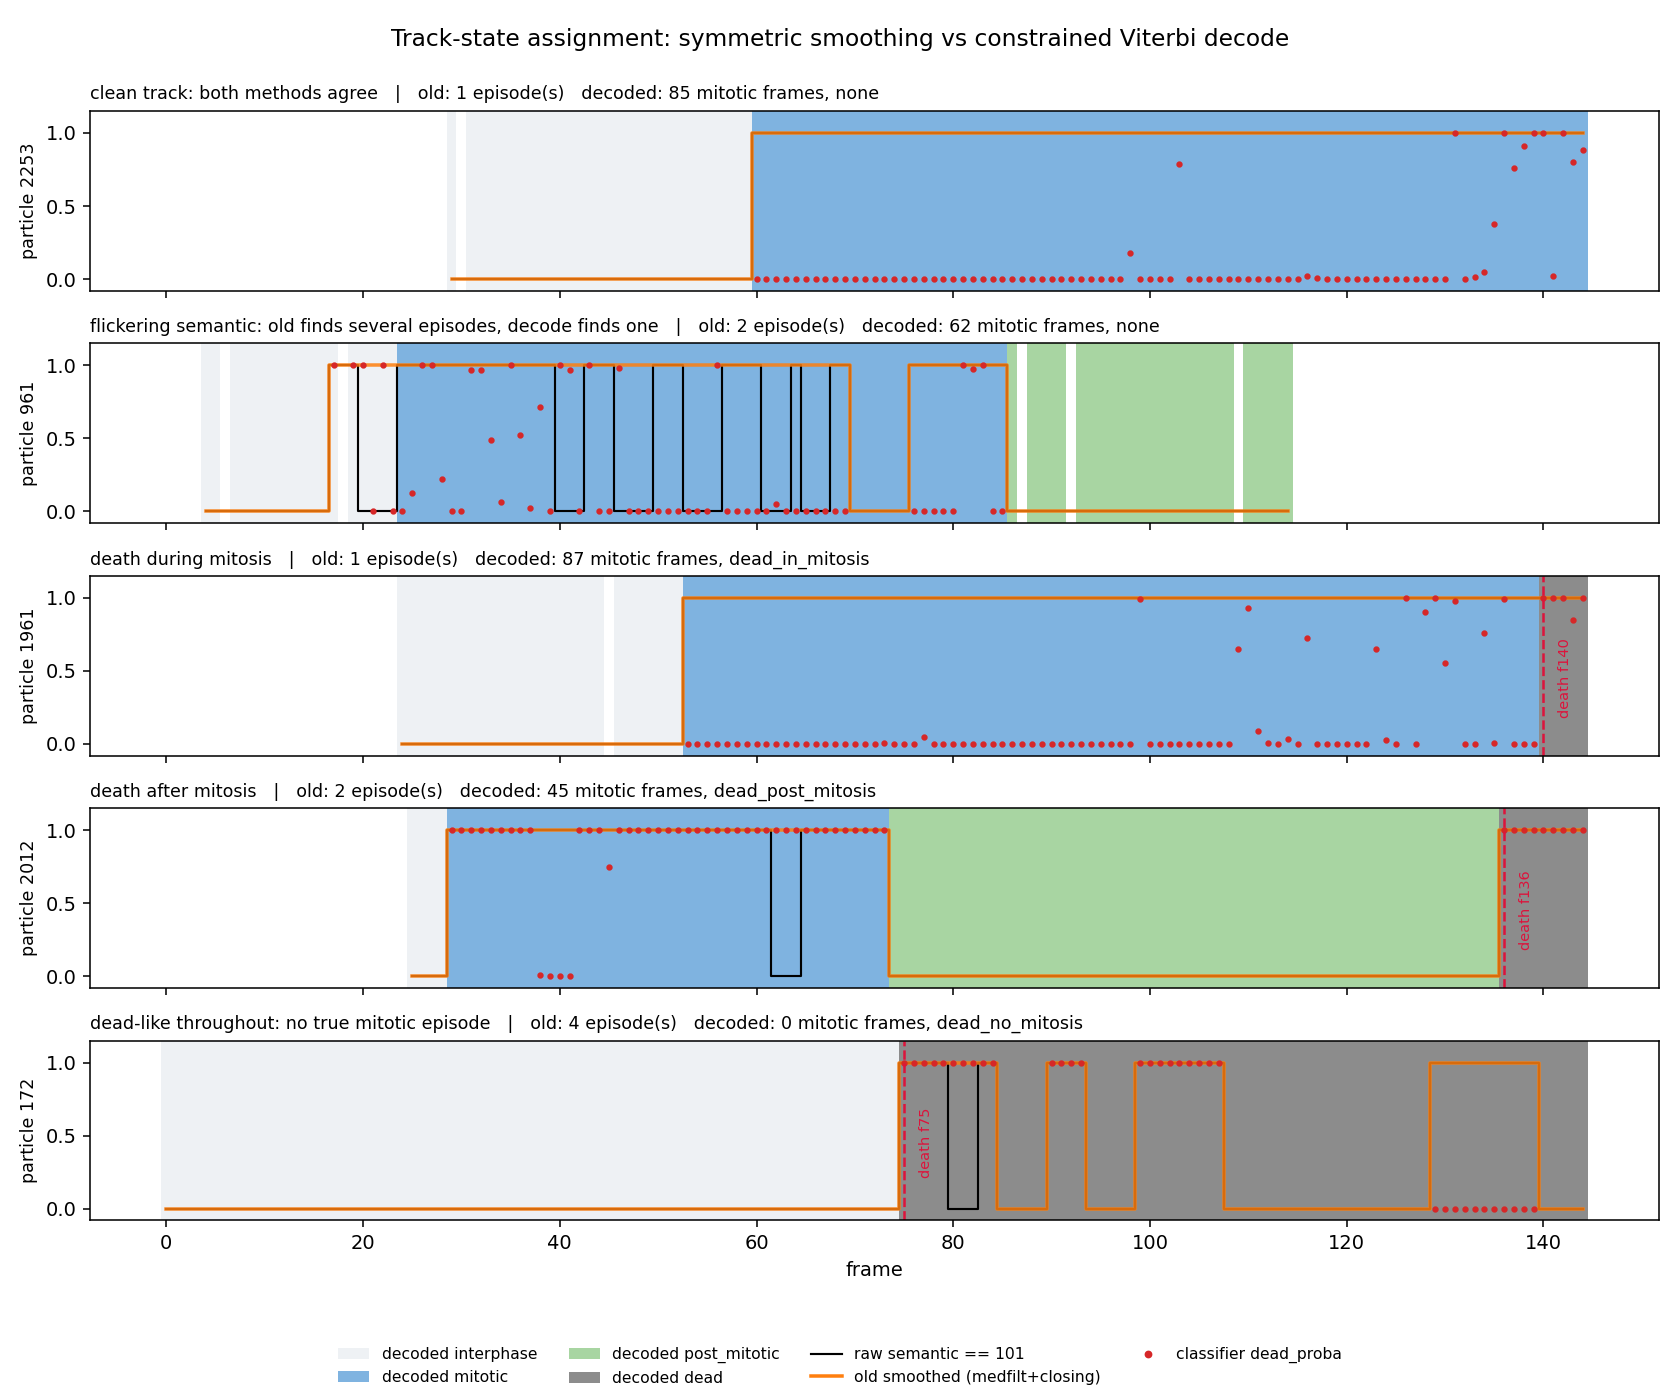
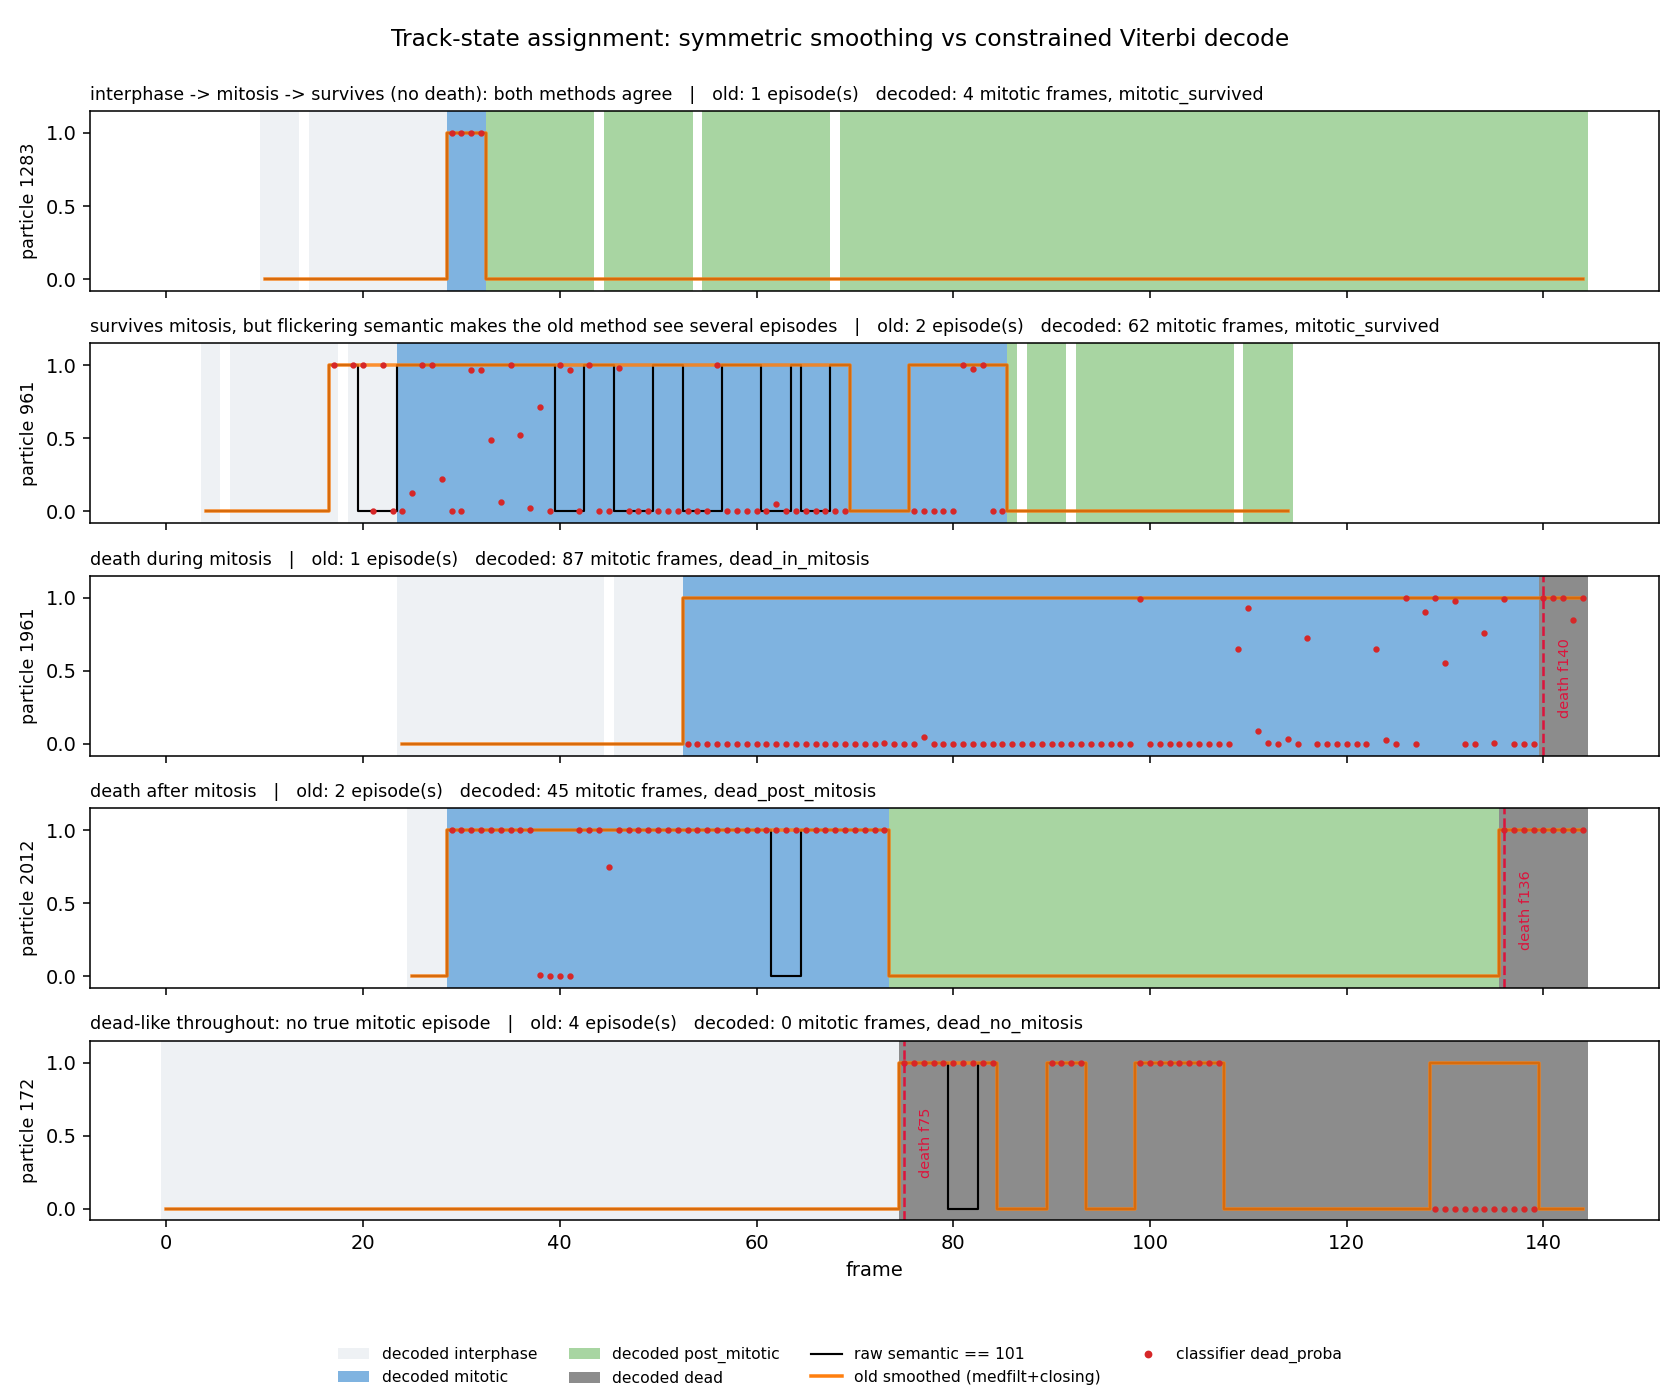
Name the survives-mitosis outcome explicitly (death_label -> fate_label)
The decode already permitted interphase -> mitosis -> post-mitotic without
death (234 of 2741 A03_s1 tracks take that path), but the label conflated
it with tracks that never divided: both were reported as 'none'.

fate_label now distinguishes all five outcomes:
  no_mitosis, mitotic_survived, dead_in_mitosis, dead_post_mitosis,
  dead_no_mitosis
death_frame is populated for exactly the three dead_* labels.

On A03_s1 the 443 summarized tracks split 269 mitotic_survived,
130 dead_no_mitosis, 19 dead_in_mitosis, 13 dead_post_mitosis, 12 no_mitosis.

Changed region(s): [[0.0619, 0.0614, 0.9595, 0.2457]]

diff --git a/figures/decode_demo.py b/figures/decode_demo.py
@@ -49,22 +49,25 @@ for pid, g in df.groupby('particle'):
     _, props = find_peaks(np.append(g.semantic_smoothed.to_numpy(), np.zeros(3)),
                           width=MIN_DUR)
     decoded[pid] = (g, states, ev)
+    path = ''.join('IMPD'[s] for s in states)
     rows.append(dict(pid=pid, n=len(g),
                      raw_flips=int(np.abs(np.diff(mit_obs.astype(int))).sum()),
                      old_peaks=props['widths'].size,
                      old_dur=props['widths'][0] if props['widths'].size == 1 else np.nan,
                      new_dur=int((states == 1).sum()),
-                     label=ev['death_label'], death_frame=ev['death_frame']))
+                     exits=int((states == 2).any()),
+                     path=''.join(c for i, c in enumerate(path) if i == 0 or c != path[i-1]),
+                     label=ev['fate_label'], death_frame=ev['death_frame']))
 S = pd.DataFrame(rows)
 
-print('=== decoded death labels (all tracks with a 101 detection) ===')
+print('=== decoded fate labels (all tracks with a 101 detection) ===')
 print(S.label.value_counts().to_string())
 print(f"\ntracks total: {len(S)}")
 print(f"old method: {(S.old_peaks > 1).sum()} tracks give >1 mitotic episode "
       f"(discarded by summarize_data); {(S.old_peaks == 0).sum()} give none")
 resc = S[(S.old_peaks > 1) & (S.new_dur >= MIN_DUR)]
 print(f"of those, decode recovers a single episode for {len(resc)} "
-      f"({resc.label.eq('none').sum()} without death)")
+      f"({resc.label.eq('mitotic_survived').sum()} without death)")
 both = S[(S.old_peaks == 1) & (S.new_dur >= MIN_DUR)]
 print(f"tracks scored by both methods: {len(both)}; median duration "
       f"old {both.old_dur.median():.1f} vs decoded {both.new_dur.median():.1f} frames")
@@ -78,12 +81,12 @@ def take(sel, title):
             picks.append((pid, title))
             return
 
-take(S[(S.old_peaks == 1) & (S.label == 'none') & (S.raw_flips <= 2)
-       & (S.n > 60)].sort_values('new_dur', ascending=False),
-     'clean track: both methods agree')
-take(S[(S.old_peaks > 1) & (S.label == 'none') & (S.new_dur >= 4)]
+take(S[(S.path == 'IMP') & (S.new_dur.between(4, 12)) & (S.raw_flips <= 3)
+       & (S.n > 60)].sort_values('n', ascending=False),
+     'interphase -> mitosis -> survives (no death): both methods agree')
+take(S[(S.path == 'IMP') & (S.old_peaks > 1) & (S.new_dur >= 4)]
      .sort_values('raw_flips', ascending=False),
-     'flickering semantic: old finds several episodes, decode finds one')
+     'survives mitosis, but flickering semantic makes the old method see several episodes')
 take(S[(S.label == 'dead_in_mitosis') & (S.n > 40)].sort_values('new_dur', ascending=False),
      'death during mitosis')
 take(S[(S.label == 'dead_post_mitosis') & (S.n > 50)].sort_values('new_dur', ascending=False),
@@ -110,7 +113,7 @@ for ax, (pid, title) in zip(np.atleast_1d(axes), picks):
     ax.set_ylim(-0.08, 1.15)
     ax.set_ylabel(f'particle {pid}', fontsize=9)
     ax.set_title(f'{title}   |   old: {row.old_peaks} episode(s)   '
-                 f'decoded: {row.new_dur} mitotic frames, {ev["death_label"]}',
+                 f'decoded: {row.new_dur} mitotic frames, {ev["fate_label"]}',
                  fontsize=9, loc='left')
 axes[-1].set_xlabel('frame')
 handles = [Patch(fc=c, label=f'decoded {n}') for c, n in zip(state_colors, STATE_NAMES)]

diff --git a/track_decode.py b/track_decode.py
@@ -100,8 +100,13 @@ def track_events(states: npt.NDArray, frames: npt.NDArray) -> dict:
     Returns dict with:
     mito_start, mito_end : movie frames bounding the mitotic episode (or None)
     death_frame          : movie frame of the first dead-classified state
-    death_label          : none | dead_in_mitosis | dead_post_mitosis |
-                           dead_no_mitosis
+    fate_label           : one of
+        no_mitosis        - never mitotic and never dead-like
+        mitotic_survived  - entered mitosis and did not become dead-like
+                            (whether or not it exited before the movie ended)
+        dead_in_mitosis   - became dead-like while still mitotic
+        dead_post_mitosis - exited mitosis, then became dead-like
+        dead_no_mitosis   - became dead-like without a true mitotic episode
     '''
     frames = np.asarray(frames)
     m = np.flatnonzero(states == 1)
@@ -109,12 +114,14 @@ def track_events(states: npt.NDArray, frames: npt.NDArray) -> dict:
     events = {'mito_start': int(frames[m[0]]) if m.size else None,
               'mito_end': int(frames[m[-1]]) if m.size else None,
               'death_frame': int(frames[d[0]]) if d.size else None,
-              'death_label': 'none'}
+              'fate_label': 'no_mitosis'}
     if d.size:
         if not m.size:
-            events['death_label'] = 'dead_no_mitosis'
+            events['fate_label'] = 'dead_no_mitosis'
         elif np.any(states == 2):
-            events['death_label'] = 'dead_post_mitosis'
+            events['fate_label'] = 'dead_post_mitosis'
         else:
-            events['death_label'] = 'dead_in_mitosis'
+            events['fate_label'] = 'dead_in_mitosis'
+    elif m.size:
+        events['fate_label'] = 'mitotic_survived'
     return events

diff --git a/cellaap_analysis.py b/cellaap_analysis.py
@@ -472,7 +472,8 @@ class analysis:
         channels         = []
         max_displacement = []
         dead_cell_score  = [] # keep track of "dead" flags
-        death_label      = [] # none / dead_in_mitosis / dead_post_mitosis / dead_no_mitosis
+        fate_label       = [] # no_mitosis / mitotic_survived / dead_in_mitosis /
+                              # dead_post_mitosis / dead_no_mitosis
         death_frame      = [] # movie frame of death (NaN if the cell never dies)
         mitosis_decoded    = [] # mitotic duration from the constrained decode
         mito_start_decoded = [] # mitotic entry frame from the constrained decode
@@ -527,7 +528,7 @@ class analysis:
                                       self.defaults.decode_switch_penalty,
                                       self.defaults.decode_dead_weight)
                 events = track_events(states, track_rows.frame.to_numpy())
-                death_label.append(events['death_label'])
+                fate_label.append(events['fate_label'])
                 death_frame.append(events['death_frame'] if events['death_frame']
                                    is not None else np.nan)
                 # Decoded mitotic episode, reported alongside the smoothing-based
@@ -581,7 +582,7 @@ class analysis:
                         "cell_area"        : cell_area,
                         "mitosis"          : mitosis,
                         "dead_cell_score"  : dead_cell_score,
-                        "death_label"      : death_label,
+                        "fate_label"       : fate_label,
                         "death_frame"      : death_frame,
                         "mitosis_decoded"  : mitosis_decoded,
                         "mito_start_decoded" : mito_start_decoded
